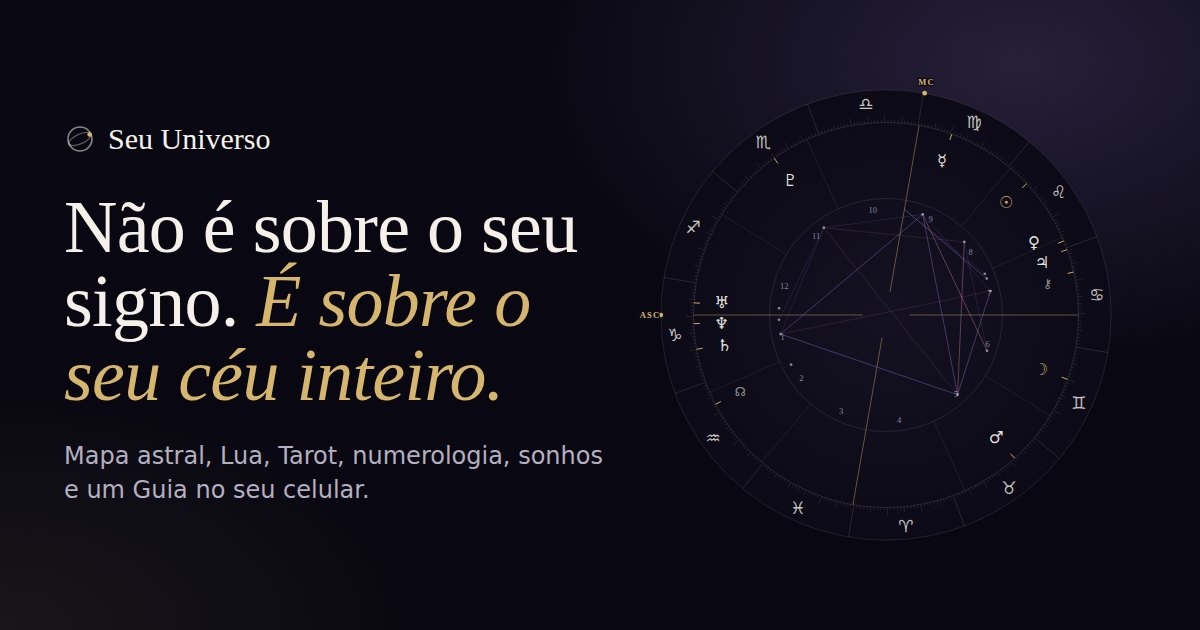
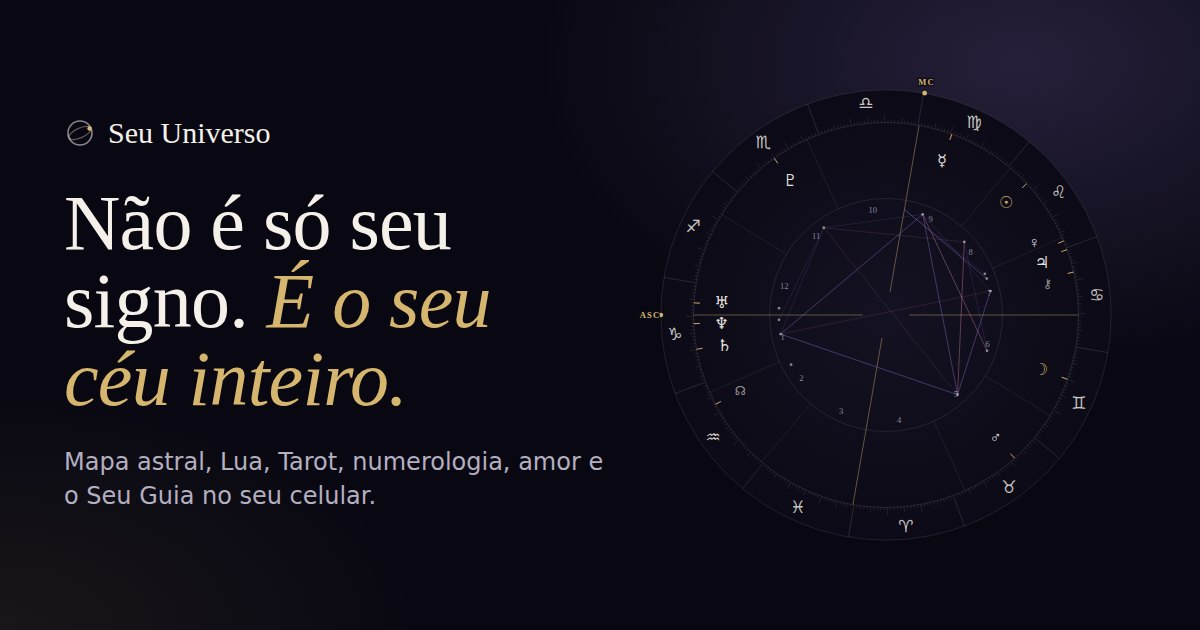
Landing: novo título, Relacionamentos em destaque e Guia como tradutor do mapa
- Título "Não é só seu signo. É o seu céu inteiro." (página, og:title e og.jpg)
- Seção de amor com 6 benefícios, preço e botão; oferta com dois cartões
  (Seu Universo + Relacionamentos, total combinado, utm_content=oferta-amor)
- Menos avisos de "leitura simbólica"; FAQ "Astrologia é ciência?" removido;
  "Feito com cuidado" vira "Feito para você"
- Seu Guia apresentado como quem traduz os dados para linguagem fácil, sem o
  rótulo IA na landing (Termos e Privacidade seguem informando)
- Teste da landing cobre título, cartão do amor, checkout e ausência de
  "IA"/"simbólico" na página

Claude-Session: https://claude.ai/code/session_011GZGofBNNboHmA9MQNVKeu

diff --git a/landing/index.html b/landing/index.html
@@ -5,7 +5,7 @@
 <meta name="viewport" content="width=device-width, initial-scale=1.0, viewport-fit=cover">
 <title>Seu Universo: o seu mapa astral, a Lua, o Tarot e um Guia no seu celular</title>
 <meta name="description" content="Mapa astral calculado com dados astronômicos reais, Lua do dia, Tarot, numerologia, diário de sonhos e o Seu Guia, que conversa com você a partir do seu mapa. Acesso vitalício.">
-<meta property="og:title" content="Seu Universo: não é sobre o seu signo, é sobre o seu céu inteiro">
+<meta property="og:title" content="Seu Universo: não é só seu signo, é o seu céu inteiro">
 <meta property="og:description" content="Mapa astral, Lua, Tarot, numerologia, sonhos e um Guia no seu celular. Acesso vitalício.">
 <meta property="og:image" content="img/og.jpg">
 <meta property="og:type" content="website">
@@ -192,6 +192,26 @@
   .love-phones{display:flex;gap:14px;justify-content:center}
   .love-phones .phone{width:min(46%,220px)}
   .love-phones .phone:nth-child(2){transform:translateY(28px)}
+  .btn-rose{background:var(--rose);color:#1d0f17;box-shadow:0 14px 34px -14px rgba(201,130,156,.8)}
+  .btn-rose:hover{background:#d695ad;box-shadow:0 20px 40px -14px rgba(201,130,156,.9)}
+  .love .lead{margin-top:14px;font-size:17px}
+  .love-cta{margin-top:28px;display:flex;flex-wrap:wrap;align-items:center;gap:16px 22px;padding:18px 20px;border-radius:18px;background:rgba(201,130,156,.10);border:1px solid rgba(201,130,156,.35)}
+  .love-price small{display:block;font-size:11px;font-weight:600;letter-spacing:.14em;text-transform:uppercase;color:var(--rose)}
+  .love-price b{display:block;font-family:var(--display);font-weight:400;font-size:40px;line-height:1.05;white-space:nowrap}
+  .love-price > span{display:block;font-size:13px;color:var(--ink-2)}
+  .love-cta .btn{flex:1 1 200px}
+  .offer-pair{display:grid;gap:34px;max-width:1080px;margin:40px auto 0;align-items:start}
+  .offer-pair .offer{margin:0;max-width:none}
+  .offer-love{border-color:rgba(201,130,156,.6);box-shadow:0 0 0 5px rgba(201,130,156,.07),0 40px 90px -40px rgba(201,130,156,.55);
+    background:radial-gradient(120% 70% at 100% 0%,rgba(201,130,156,.18),transparent 55%),linear-gradient(170deg,#21151f,#12101d 62%)}
+  .offer-love .offer-tag{background:var(--rose);color:#1d0f17}
+  .offer-love .offer-list li .g,.offer-love .price-sub b{color:var(--rose)}
+  .love-title{font-family:var(--display);font-weight:400;font-size:32px;line-height:1.1;display:flex;align-items:center;gap:10px}
+  .love-title .glyph{color:var(--rose);font-size:26px}
+  .combo{margin-top:16px;padding:12px 14px;border-radius:12px;background:rgba(255,255,255,.04);border:1px solid var(--line-strong);font-size:15px;color:var(--ink-2);text-align:center}
+  .combo b{color:var(--ink);font-weight:600}
+  .love-how{margin-top:14px;font-size:13.5px;color:var(--ink-3);text-align:center;line-height:1.5}
+  .love-how b{color:var(--ink);font-weight:500}
   .love-note{margin-top:26px;display:inline-block;font-size:14px;color:var(--ink);padding:10px 14px;border-radius:12px;background:rgba(201,130,156,.10);border:1px solid rgba(201,130,156,.3)}
   .love-note b{color:var(--rose);font-weight:600;white-space:nowrap}
 
@@ -252,7 +272,7 @@
   .seal small{font-size:10px;letter-spacing:.16em;text-transform:uppercase}
   .not-list{list-style:none;display:grid;gap:12px;margin-top:20px}
   .not-list li{display:grid;grid-template-columns:22px minmax(0,1fr);gap:10px;color:var(--ink-2);font-size:15.5px;line-height:1.45}
-  .not-list li::before{content:"";width:14px;height:2px;border-radius:2px;background:var(--rose);margin-top:12px}
+  .not-list li::before{content:"✓";color:var(--gold);font-weight:600;line-height:1.45}
   .not-list b{color:var(--ink);font-weight:500}
 
   /* ---------- FAQ ---------- */
@@ -383,6 +403,8 @@
     .love-grid{grid-template-columns:1.1fr .9fr;gap:50px}
     .quiz-cta{grid-template-columns:1.3fr .7fr;padding:56px 52px}
     .offer{padding:46px 44px 34px}
+    .offer-pair{grid-template-columns:1fr 1fr;gap:26px}
+    .offer-pair .offer{padding:44px 36px 32px}
     .truth{grid-template-columns:1fr 1fr}
     .truth-card{padding:44px 40px}
   }
@@ -407,8 +429,8 @@
   <div class="wrap hero-grid">
     <div>
       <span class="eyebrow">Mapa astral · Lua · Tarot · Numerologia · Sonhos</span>
-      <h1>Não é sobre o seu signo. <em>É sobre o seu céu inteiro.</em></h1>
-      <p class="lead">O Seu Universo calcula o céu exato do momento em que você nasceu e transforma isso em leituras feitas para você. <strong>Mapa astral, Lua do dia, Tarot, numerologia, diário de sonhos e um Guia que conversa com você a partir do seu mapa.</strong> Tudo no seu celular.</p>
+      <h1>Não é só seu signo. <em>É o seu céu inteiro.</em></h1>
+      <p class="lead">O Seu Universo calcula o céu exato do momento em que você nasceu e transforma isso em leituras feitas para você. <strong>Mapa astral, Lua do dia, Tarot, numerologia, diário de sonhos e o Seu Guia, que traduz tudo isso para uma linguagem simples.</strong> Tudo no seu celular.</p>
       <div class="chips">
         <span class="chip"><i></i>Posições calculadas, não adivinhadas</span>
         <span class="chip"><i></i>Leituras feitas para o seu mapa</span>
@@ -495,9 +517,9 @@
       </article>
       <article class="mstep s3 reveal">
         <span class="n">3</span>
-        <h3>O Seu Guia lê com você</h3>
-        <p>Uma IA que interpreta só o que foi calculado, com base numa biblioteca editorial própria. Ela não inventa posições e não sorteia cartas.</p>
-        <p class="tech">Linguagem simbólica, para refletir. Sem previsões garantidas.</p>
+        <h3>O Seu Guia traduz tudo para você</h3>
+        <p>Ele pega todos esses dados e transforma em uma linguagem fácil, como uma conversa: o que cada posição diz sobre a sua personalidade, os seus relacionamentos e o seu momento. Sem termos técnicos.</p>
+        <p class="tech">E você pode perguntar o que quiser: ele responde a partir do seu mapa.</p>
       </article>
     </div>
     <div class="rule reveal">
@@ -535,13 +557,20 @@
         <div>
           <span class="eyebrow reveal">Relacionamentos</span>
           <h2 class="h2 reveal">E quando o assunto é <em>amor.</em></h2>
+          <p class="lead reveal">Entenda como você ama, por que se atrai por certas pessoas e como o seu céu conversa com o de quem mexe com você.</p>
           <ul class="reveal">
-            <li><span class="g" aria-hidden="true">♀&#xFE0E;</span><div><b>Perfil amoroso</b>Como você ama, o que te atrai e do que precisa, pela linguagem de Vênus, Marte e da Lua.</div></li>
-            <li><span class="g" aria-hidden="true">☍&#xFE0E;</span><div><b>Mapa do casal</b>Compare o seu céu com o de outra pessoa: afinidades, pontos de atenção e o que um desperta no outro.</div></li>
-            <li><span class="g" aria-hidden="true">✦</span><div><b>Tarot do amor</b>Três cartas para refletir sobre o momento da relação.</div></li>
+            <li><span class="g" aria-hidden="true">♀&#xFE0E;</span><div><b>Seu perfil amoroso completo</b>Como você ama, o que te atrai, do que você precisa para se sentir em paz no amor e onde costuma tropeçar, a partir de Vênus, Marte, da Lua e das casas do amor.</div></li>
+            <li><span class="g" aria-hidden="true">☍&#xFE0E;</span><div><b>Mapa do casal</b>O seu céu lado a lado com o da outra pessoa, planeta por planeta.</div></li>
+            <li><span class="g" aria-hidden="true">☌&#xFE0E;</span><div><b>As conexões entre vocês</b>Os aspectos que ligam os dois mapas, do mais forte ao mais sutil: onde há química, onde há atrito.</div></li>
+            <li><span class="g" aria-hidden="true">✧</span><div><b>A leitura do casal pelo Seu Guia</b>Afinidades, diferenças, comunicação, afeto e desejo, e o que cada um desperta no outro, explicado em linguagem simples.</div></li>
+            <li><span class="g" aria-hidden="true">⚭</span><div><b>Compare com mais de uma pessoa</b>Parceiro, crush, ex: adicione quem quiser e veja cada combinação.</div></li>
+            <li><span class="g" aria-hidden="true">✦</span><div><b>Tarot do amor</b>Três cartas sobre a energia do momento, a dinâmica entre vocês e o que observar agora.</div></li>
           </ul>
-          <p class="love-note reveal">Complemento opcional no checkout: <b>+ R$&nbsp;<span class="js-bump">9,90</span></b>, também vitalício</p>
-          <p class="fine reveal" style="margin-top:12px">Sem porcentagem de compatibilidade e sem promessa de “volta”. Só leitura cuidadosa de dois céus.</p>
+          <div class="love-cta reveal">
+            <div class="love-price"><small>Complemento vitalício</small><b>+ R$&nbsp;<span class="js-bump">9,90</span></b><span>no mesmo checkout</span></div>
+            <a class="btn btn-rose" href="#oferta-amor">Quero Relacionamentos</a>
+          </div>
+          <p class="fine reveal" style="margin-top:14px">Nada de porcentagem de compatibilidade: é uma leitura de verdade dos dois mapas.</p>
         </div>
         <div class="love-phones reveal">
           <figure class="phone"><div class="frame"><img src="img/app-amor.webp" alt="Área de amor com Vênus, Marte, Lua e Sol" loading="lazy" width="390" height="844"></div></figure>
@@ -579,6 +608,7 @@
     <span class="eyebrow reveal">Acesso vitalício</span>
     <h2 class="h2 reveal">Seu céu, <em>para sempre</em> na palma da mão.</h2>
     <p class="offer-timer js-timer-wrap"><span class="dot"></span>Por tempo limitado · termina em <b class="js-timer">32:00</b></p>
+    <div class="offer-pair">
     <article class="offer reveal" id="plano">
       <span class="offer-tag">Pagamento único</span>
       <span class="brand"><svg viewBox="0 0 24 24" fill="none" aria-hidden="true"><circle cx="12" cy="12" r="9" stroke="#f5f1ea" stroke-opacity=".55" stroke-width="1.2"/><ellipse cx="12" cy="12" rx="9" ry="3.6" transform="rotate(-24 12 12)" stroke="#f5f1ea" stroke-opacity=".35"/><circle cx="19.2" cy="8.6" r="1.7" fill="#d6b56e"/></svg>Seu Universo</span>
@@ -589,7 +619,7 @@
         <li><span class="g" aria-hidden="true">✦</span><span><b>Tarot Rider-Waite-Smith:</b> carta do dia e pergunta aberta</span></li>
         <li><span class="g" aria-hidden="true">#</span><span><b>Numerologia pitagórica:</b> Caminho de Vida, Expressão, Alma e mais</span></li>
         <li><span class="g" aria-hidden="true">≈</span><span><b>Diário de sonhos</b> com leituras possíveis</span></li>
-        <li><span class="g" aria-hidden="true">✧</span><span><b>Seu Guia:</b> leituras e conversa a partir do seu mapa</span></li>
+        <li><span class="g" aria-hidden="true">✧</span><span><b>Seu Guia:</b> traduz o seu mapa em linguagem simples e responde às suas perguntas</span></li>
         <li><span class="g" aria-hidden="true">∞</span><span><b>Acesso vitalício</b>, no celular e no computador, sem baixar aplicativo</span></li>
       </ul>
       <div class="price-row">
@@ -600,10 +630,6 @@
         Quero o meu acesso
         <svg viewBox="0 0 24 24" fill="none" stroke="currentColor" stroke-width="2.2" stroke-linecap="round" stroke-linejoin="round"><path d="M5 12h14M13 6l6 6-6 6"/></svg>
       </a>
-      <div class="bump">
-        <span class="g" aria-hidden="true">♀&#xFE0E;</span>
-        <span><b>No checkout, você pode adicionar Relacionamentos</b> por <span class="p">+ R$&nbsp;<span class="js-bump">9,90</span></span>: perfil amoroso, mapa do casal e Tarot do amor. Também vitalício, e também dá para adicionar depois, de dentro do app.</span>
-      </div>
       <div class="guar-row">
         <span><svg viewBox="0 0 24 24" fill="none" stroke="currentColor" stroke-width="2" stroke-linecap="round" stroke-linejoin="round"><rect x="4" y="11" width="16" height="10" rx="2"/><path d="M8 11V7a4 4 0 0 1 8 0v4"/></svg>Compra segura</span>
         <span><svg viewBox="0 0 24 24" fill="none" stroke="currentColor" stroke-width="2" stroke-linecap="round" stroke-linejoin="round"><path d="M13 2L4 14h7l-1 8 9-12h-7z"/></svg>Acesso imediato</span>
@@ -611,6 +637,32 @@
         <span>Pix ou cartão</span>
       </div>
     </article>
+
+    <article class="offer offer-love reveal" id="oferta-amor">
+      <span class="offer-tag">Complemento · Amor</span>
+      <h3 class="love-title"><span class="glyph" aria-hidden="true">♀&#xFE0E;</span> Relacionamentos</h3>
+      <p class="offer-sub">Para entender como você ama e como o seu céu conversa com o de outra pessoa.</p>
+      <ul class="offer-list">
+        <li><span class="g" aria-hidden="true">♀&#xFE0E;</span><span><b>Perfil amoroso completo:</b> como você ama, o que te atrai, suas necessidades e seus pontos de atenção</span></li>
+        <li><span class="g" aria-hidden="true">☍&#xFE0E;</span><span><b>Mapa do casal:</b> os dois céus lado a lado</span></li>
+        <li><span class="g" aria-hidden="true">☌&#xFE0E;</span><span><b>Conexões entre os mapas:</b> onde há química e onde há atrito</span></li>
+        <li><span class="g" aria-hidden="true">✧</span><span><b>Leitura do casal pelo Seu Guia:</b> afinidades, comunicação, afeto e desejo</span></li>
+        <li><span class="g" aria-hidden="true">⚭</span><span><b>Compare com mais de uma pessoa</b></span></li>
+        <li><span class="g" aria-hidden="true">✦</span><span><b>Tarot do amor:</b> três cartas sobre o momento da relação</span></li>
+        <li><span class="g" aria-hidden="true">∞</span><span><b>Vitalício</b>, junto com o seu acesso</span></li>
+      </ul>
+      <div class="price-row">
+        <div class="price"><sup>+R$</sup><span class="js-bump">9,90</span></div>
+        <p class="price-sub"><b>no mesmo checkout</b>pagamento único</p>
+      </div>
+      <p class="combo">Seu Universo + Relacionamentos: <b>R$&nbsp;<span class="js-total">29,80</span></b></p>
+      <a class="btn btn-rose btn-block js-checkout" data-utm-content="oferta-amor" href="#oferta">
+        Quero o acesso completo
+        <svg viewBox="0 0 24 24" fill="none" stroke="currentColor" stroke-width="2.2" stroke-linecap="round" stroke-linejoin="round"><path d="M5 12h14M13 6l6 6-6 6"/></svg>
+      </a>
+      <p class="love-how">No checkout, é só marcar <b>Relacionamentos</b>. Se preferir, dá para adicionar depois, de dentro do app.</p>
+    </article>
+    </div>
     <p class="offer-note reveal"><b>7 dias de garantia incondicional:</b> se não for para você, devolvemos 100% do valor, sem perguntas.</p>
     <p class="offer-note reveal">Não sabe por onde começar? <button type="button" class="link-btn js-quiz">Faça o teste de 1 minuto</button></p>
   </div>
@@ -625,13 +677,13 @@
       <p>Entre, crie o seu mapa, use o Guia, tire as cartas. Se por qualquer motivo achar que não é para você, <strong>devolvemos 100% do seu dinheiro, sem perguntas e sem burocracia</strong>. É só pedir dentro de 7 dias após a compra.</p>
     </div>
     <div class="truth-card reveal">
-      <h3>Feito com cuidado</h3>
-      <p>Astrologia, Tarot, numerologia e sonhos são linguagens simbólicas. Elas servem para refletir e se conhecer. Por isso, o Seu Universo:</p>
+      <h3>Feito para você</h3>
+      <p>No Seu Universo, tudo parte do <strong>seu</strong> mapa, não de um texto pronto por signo.</p>
       <ul class="not-list">
-        <li><span><b>não promete resultados</b> no amor, no dinheiro ou na saúde;</span></li>
-        <li><span><b>não faz previsões garantidas</b> nem diagnósticos;</span></li>
-        <li><span><b>não substitui</b> orientação médica, psicológica, jurídica ou financeira;</span></li>
-        <li><span><b>não vende os seus dados.</b> Seu mapa e seus sonhos ficam na sua conta.</span></li>
+        <li><span><b>Leituras que falam de você,</b> calculadas com a sua data, horário e cidade;</span></li>
+        <li><span><b>Linguagem fácil:</b> o Guia traduz cada posição em palavras simples;</span></li>
+        <li><span><b>No seu ritmo:</b> 2 minutos por dia ou uma noite inteira de mergulho;</span></li>
+        <li><span><b>Seus dados protegidos:</b> seu mapa e seus sonhos ficam só na sua conta. Não vendemos dados.</span></li>
       </ul>
     </div>
   </div>
@@ -645,10 +697,10 @@
     <div class="faq">
       <details class="reveal"><summary>Quando e como recebo meu acesso?</summary><p><b>Na hora, direto no seu celular.</b> O acesso é liberado logo após a compra, para o e-mail que você informou no checkout. Crie sua conta com <b>esse mesmo e-mail</b>, confirme pelo link que chega na sua caixa de entrada (olhe também o spam e a aba Promoções) e pronto. Não precisa baixar aplicativo, e também funciona no computador.</p></details>
       <details class="reveal"><summary>Preciso saber meu horário de nascimento?</summary><p>Não é obrigatório. Sem o horário, você vê os planetas nos signos, a numerologia, a Lua, o Tarot e os sonhos normalmente. <b>O Ascendente e as casas dependem do horário</b>, e você pode adicioná-lo depois, quando descobrir (a certidão de nascimento costuma ter).</p></details>
-      <details class="reveal"><summary>O que é o Seu Guia? É uma IA?</summary><p>Sim. O Seu Guia é uma inteligência artificial que <b>interpreta os dados calculados</b> do seu mapa, com base na nossa biblioteca editorial. Ela não calcula posições e não sorteia cartas: isso é feito pelo sistema. As leituras são simbólicas, para reflexão.</p></details>
-      <details class="reveal"><summary>Astrologia é ciência?</summary><p>Não, e a gente não finge que é. <b>As posições dos planetas são cálculos astronômicos reais;</b> a interpretação é uma linguagem simbólica, usada para autoconhecimento e reflexão. Nada aqui é previsão garantida.</p></details>
-      <details class="reveal"><summary>O que vem no complemento de Relacionamentos?</summary><p>Perfil amoroso (Vênus, Marte e Lua), mapa do casal para comparar o seu céu com o de outra pessoa, e o Tarot do amor. Custa <b>+ R$&nbsp;<span class="js-bump">9,90</span></b> no checkout, é vitalício e também pode ser adicionado depois, de dentro do app.</p></details>
-      <details class="reveal"><summary>Meus dados ficam seguros?</summary><p>Sim. Seus dados de nascimento, sonhos e anotações ficam na sua conta, protegidos. Para gerar as leituras, a IA recebe só os dados calculados e o texto necessário, <b>sem o seu nome, e-mail ou endereço</b>. Não vendemos dados.</p></details>
+      <details class="reveal"><summary>O que é o Seu Guia?</summary><p>É a parte do Seu Universo que <b>traduz o seu mapa para você</b>. Ele pega os dados calculados (posições dos planetas, casas, aspectos, números, cartas) e explica tudo em linguagem simples, como uma conversa, sem termos técnicos. E você pode fazer perguntas: ele responde a partir do seu mapa.</p></details>
+      <details class="reveal"><summary>Preciso entender de astrologia?</summary><p>Não. Você só informa a data, o horário e a cidade de nascimento. <b>O sistema calcula o seu céu e o Seu Guia explica cada parte</b> em palavras simples. Quem já estuda astrologia encontra o mapa completo, com casas, aspectos e três sistemas de casas.</p></details>
+      <details class="reveal"><summary>O que vem no complemento de Relacionamentos?</summary><p>Seu perfil amoroso completo, o mapa do casal com as conexões entre os dois céus, a leitura do casal pelo Seu Guia (com quantas pessoas você quiser comparar) e o Tarot do amor. Custa <b>+ R$&nbsp;<span class="js-bump">9,90</span></b>: é só marcar no checkout. É vitalício e também pode ser adicionado depois, de dentro do app.</p></details>
+      <details class="reveal"><summary>Meus dados ficam seguros?</summary><p>Sim. Seus dados de nascimento, sonhos e anotações ficam na sua conta, protegidos. Para gerar as leituras, usamos só os dados calculados e o texto necessário, <b>sem o seu nome, e-mail ou endereço</b>. Não vendemos dados.</p></details>
       <details class="reveal"><summary>Tenho garantia?</summary><p><b>Sim: 7 dias de garantia incondicional.</b> Se achar que não é para você, devolvemos 100% do valor, sem perguntas. É só pedir o reembolso pela plataforma de pagamento<span class="js-email-wrap" hidden> ou pelo e-mail <a class="js-email" href="#"></a></span>.</p></details>
     </div>
   </div>
@@ -677,7 +729,7 @@
       <span class="js-email-wrap" hidden>Contato: <a class="js-email" href="#"></a></span>
     </nav>
     <p>© <span id="y"></span> Seu Universo. Todos os direitos reservados.</p>
-    <p>Astrologia, Tarot, numerologia e interpretação de sonhos são linguagens simbólicas, oferecidas para reflexão e autoconhecimento. Não substituem orientação médica, psicológica, jurídica ou financeira. As telas mostradas são do app; o mapa do topo é um exemplo.</p>
+    <p>Conteúdo de autoconhecimento. Não substitui orientação médica, psicológica, jurídica ou financeira. As telas mostradas são do app; o mapa do topo é um exemplo.</p>
   </div>
 </footer>
 
@@ -707,6 +759,9 @@ var isSet = function (v) { return typeof v === "string" && v.length > 0 && v.ind
 (function () {
   if (CFG.PRICE) document.querySelectorAll(".js-price").forEach(function (el) { el.textContent = CFG.PRICE; });
   if (CFG.BUMP_PRICE) document.querySelectorAll(".js-bump").forEach(function (el) { el.textContent = CFG.BUMP_PRICE; });
+  var num = function (v) { return parseFloat(String(v || "").replace(/\./g, "").replace(",", ".")); };
+  var total = num(CFG.PRICE || "19,90") + num(CFG.BUMP_PRICE || "9,90");
+  if (isFinite(total)) document.querySelectorAll(".js-total").forEach(function (el) { el.textContent = total.toFixed(2).replace(".", ","); });
   if (isSet(CFG.CONTACT_EMAIL)) {
     document.querySelectorAll(".js-email").forEach(function (a) { a.textContent = CFG.CONTACT_EMAIL; a.href = "mailto:" + CFG.CONTACT_EMAIL; });
     document.querySelectorAll(".js-email-wrap").forEach(function (w) { w.hidden = false; });
@@ -728,7 +783,14 @@ function checkoutUrl(extra) {
   } catch (e) { return CFG.CHECKOUT_URL; }
 }
 function setCheckoutLinks(extra) {
-  document.querySelectorAll(".js-checkout").forEach(function (a) { a.href = checkoutUrl(extra); });
+  document.querySelectorAll(".js-checkout").forEach(function (a) {
+    /* o botão do cartão de Relacionamentos marca a própria origem (utm_content=oferta-amor) */
+    var own = a.getAttribute("data-utm-content"), e = {};
+    if (extra) Object.keys(extra).forEach(function (k) { e[k] = extra[k]; });
+    if (own) e.utm_content = own;
+    var url = checkoutUrl(e);
+    a.href = url === "#oferta" && own ? "#oferta-amor" : url;
+  });
 }
 setCheckoutLinks();
 
@@ -951,7 +1013,7 @@ var R = {
   },
   trava: {
     generico: "<b>Cansou do genérico.</b> Aqui cada leitura parte do seu mapa, calculado com a sua data, horário e cidade.",
-    promessa: "<b>Sem promessas.</b> O Seu Universo usa a astrologia como linguagem para refletir, sem previsões garantidas.",
+    promessa: "<b>Sem frases feitas.</b> Cada leitura parte do seu mapa e diz o que ele mostra sobre você, sem exagero.",
     dificil: "<b>Sem complicação.</b> O Guia traduz o mapa em linguagem simples, com perguntas para você pensar.",
     meu: "<b>Agora é sobre o seu mapa.</b> Planetas, casas e aspectos do seu nascimento, não um texto por signo."
   },
@@ -1048,7 +1110,7 @@ function buildResult(a) {
       + '</ul>'
       + '<div class="r-rec"><small>Por onde seguir</small>'
       + '<p><b>Acesso vitalício ao Seu Universo, por R$&nbsp;' + (CFG.PRICE || "19,90") + '.</b> ' + r.tempo + '</p>'
-      + (r.obj === "amor" ? '<p class="r-love">Como o seu foco é amor, vale adicionar <b>Relacionamentos</b> no checkout (+&nbsp;R$&nbsp;' + (CFG.BUMP_PRICE || "9,90") + '): perfil amoroso, mapa do casal e Tarot do amor.</p>' : "")
+      + (r.obj === "amor" ? '<p class="r-love">Como o seu foco é amor, <b>Relacionamentos</b> é para você (+&nbsp;R$&nbsp;' + (CFG.BUMP_PRICE || "9,90") + ', é só marcar no checkout): perfil amoroso completo, mapa do casal, as conexões entre vocês e o Tarot do amor.</p>' : "")
       + '</div>'
       + '<a class="btn btn-block js-checkout" href="' + checkoutUrl({ utm_content: "quiz-" + r.obj }) + '" id="qBuy">Quero o meu acesso</a>'
       + '<a class="r-alt" href="#oferta" id="qOffer">Ver tudo o que vem no acesso</a>'

diff --git a/docs/DECISIONS.md b/docs/DECISIONS.md
@@ -275,3 +275,18 @@ Política aplicada: **XALEN → produção · JPL Horizons/DE440 → oráculo pr
   anúncio. Fase e iluminação usam as mesmas regras de `src/lib/astro/moon.ts`. Erro máximo medido contra o motor:
   1,4″ (Mercúrio), < 0,8″ nos demais; retrógrado idêntico ao do motor. Esse teste roda no `npm test`. Sem Ascendente,
   que dependeria da cidade de quem visita. Validade: 01/09/2026–31/12/2030; fora disso, o bloco some.
+
+## Landing: ajustes de conversão (2026-10-01, pedido do Guilherme)
+
+- Título do topo: **"Não é só seu signo. É o seu céu inteiro."** (também no `og:title` e na imagem `og.jpg`).
+- **Relacionamentos com destaque próprio:** a seção de amor ganhou 6 benefícios, preço e botão; a oferta passou a ter
+  dois cartões lado a lado (Seu Universo R$ 19,90 e Relacionamentos + R$ 9,90, com o total combinado). O checkout é o
+  mesmo; o botão do cartão do amor marca `utm_content=oferta-amor`. Benefícios listados conferidos com o que o app
+  entrega (perfil amoroso, mapa do casal, conexões entre os mapas, leitura do casal, várias pessoas, Tarot do amor).
+- **Menos avisos, mais produto:** saíram os avisos repetidos de "linguagem simbólica", o FAQ "Astrologia é ciência?"
+  e o cartão "Feito com cuidado" (virou "Feito para você"). O rodapé mantém uma linha curta ("não substitui orientação
+  médica…"), e Termos/Privacidade seguem completos.
+- **Seu Guia sem o rótulo "IA" na landing:** apresentado como a parte do app que pega os dados calculados e traduz para
+  linguagem fácil. Sem sugerir que é uma pessoa. Termos e Privacidade continuam informando o uso de inteligência
+  artificial (transparência/LGPD). Isto substitui a linha "IA identificada como IA" da entrada anterior, só na landing.
+- Continua proibido prometer resultado garantido (regra da base editorial e das plataformas de anúncio).

diff --git a/landing/README.md b/landing/README.md
@@ -65,5 +65,8 @@ do app.
   roda no CI.
 - **Telas do app:** os `img/app-*.webp` vieram do ambiente de testes (o Guia aparece sem leitura porque a IA ainda
   não estava conectada). Quando o app estiver no ar com a IA real, vale trocar por capturas novas, com 780×1688 px.
-- **Copy:** siga as regras de `knowledge/LEGAL_AND_EDITORIAL_NOTES.md`: sem promessa de resultado, sem porcentagem de
-  compatibilidade, sem medo nem urgência espiritual, linguagem neutra em gênero.
+- **Copy:** a página fala com quem acredita e quer o produto: sem avisos repetidos de "leitura simbólica" e sem
+  chamar o Guia de IA (ele é apresentado como quem traduz o mapa para linguagem simples). A transparência legal fica
+  nos Termos e na Privacidade, que continuam dizendo que as leituras são geradas por inteligência artificial. Limites
+  que continuam valendo (`knowledge/LEGAL_AND_EDITORIAL_NOTES.md`): nenhuma promessa de resultado garantido (amor,
+  dinheiro, saúde, "volta"), sem porcentagem de compatibilidade, linguagem neutra em gênero.
